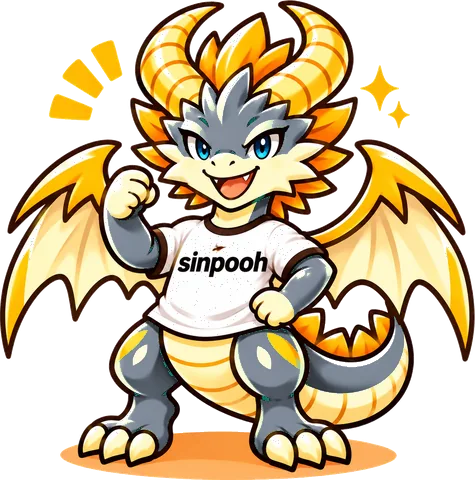
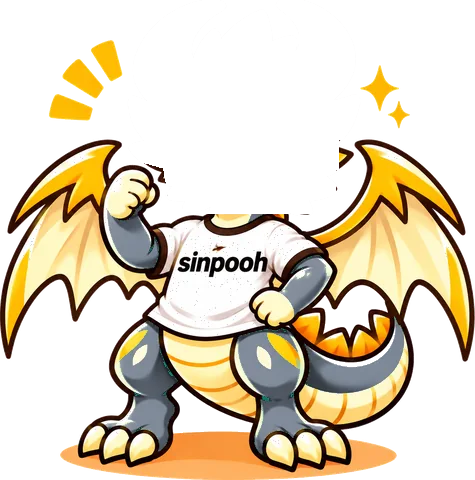
成竜の頭を分けて、原っぱでゆっくり呼吸＋2回うなずく動き
Claude-Session: https://claude.ai/code/session_01YBiCLs4pTNeStadh86Q8Uo

Changed region(s): [[0.2653, 0.0, 0.7663, 0.4688]]

diff --git a/index.html b/index.html
@@ -263,7 +263,12 @@ details.staff-d .staff-row { background: transparent; }
   80% { transform: rotate(-4deg); }
   86% { transform: none; }
 }
-@media (prefers-reduced-motion: reduce) { .roam, .roam.st2 .roam-d .dragon-body { animation: none; } }
+/* grown dragon on the field: calm breathing and a slow double nod */
+.roam.st3 .roam-d .dragon-body { transform-box: view-box; transform-origin: 100px 196px; animation: adBreathe 5.2s ease-in-out infinite; animation-delay: var(--delay, 0s); }
+.roam.st3 .roam-d .ad-head { transform-box: view-box; transform-origin: 101px 90px; animation: adNod 5.2s ease-in-out infinite; animation-delay: var(--delay, 0s); }
+@keyframes adBreathe { 0%, 100% { transform: scale(1, 1); } 50% { transform: scale(1.012, .99); } }
+@keyframes adNod { 0%, 55%, 100% { transform: none; } 62% { transform: translateY(3px) scaleY(.94); } 69% { transform: none; } 76% { transform: translateY(3px) scaleY(.94); } 84% { transform: none; } }
+@media (prefers-reduced-motion: reduce) { .roam, .roam.st2 .roam-d .dragon-body, .roam.st3 .roam-d .dragon-body, .roam.st3 .roam-d .ad-head { animation: none; } }
 .field-head { padding: 12px 16px 16px; }
 .count { font-size: 13px; color: var(--muted); font-weight: 400; }
 .tally { display: flex; flex-wrap: wrap; gap: 6px; font-size: 12px; color: var(--muted); }
@@ -807,8 +812,10 @@ body.has-live .toast { bottom: calc(132px + env(safe-area-inset-bottom, 0px)); }
       return `<svg class="${cls}" viewBox="0 0 200 200" role="img" aria-label="${STAGES[stage]}のドラゴン"><g class="dragon-body"><g class="kid-wing kid-wl">${im("img/wingL.webp")}</g><g class="kid-wing kid-wr">${im("img/wingR.webp")}</g>${im(src)}</g></svg>`;
     } else {
       // the grown dragon is a picture too (シンプーさん's design), body painted in each staff color
-      const src = KNOWN_HEX.includes(hex) ? `img/adult-${hex}.webp` : "img/adult-base.webp";
-      return `<svg class="${cls}" viewBox="0 0 200 200" role="img" aria-label="${STAGES[stage]}のドラゴン"><g class="dragon-body"><image href="${src}" x="0" y="0" width="200" height="200" preserveAspectRatio="xMidYMid meet"/></g></svg>`;
+      const k = KNOWN_HEX.includes(hex) ? hex : "base";
+      const im = h => `<image href="${h}" x="0" y="0" width="200" height="200" preserveAspectRatio="xMidYMid meet"/>`;
+      // the head is a separate picture behind the body so it can nod
+      return `<svg class="${cls}" viewBox="0 0 200 200" role="img" aria-label="${STAGES[stage]}のドラゴン"><g class="dragon-body"><g class="ad-head">${im(`img/adult-${k}-h.webp`)}</g>${im(`img/adult-${k}.webp`)}</g></svg>`;
     }
     return `<svg class="${cls}" viewBox="0 0 200 200" role="img" aria-label="${STAGES[stage]}のドラゴン"><g class="dragon-body">${g}</g></svg>`;
   }
